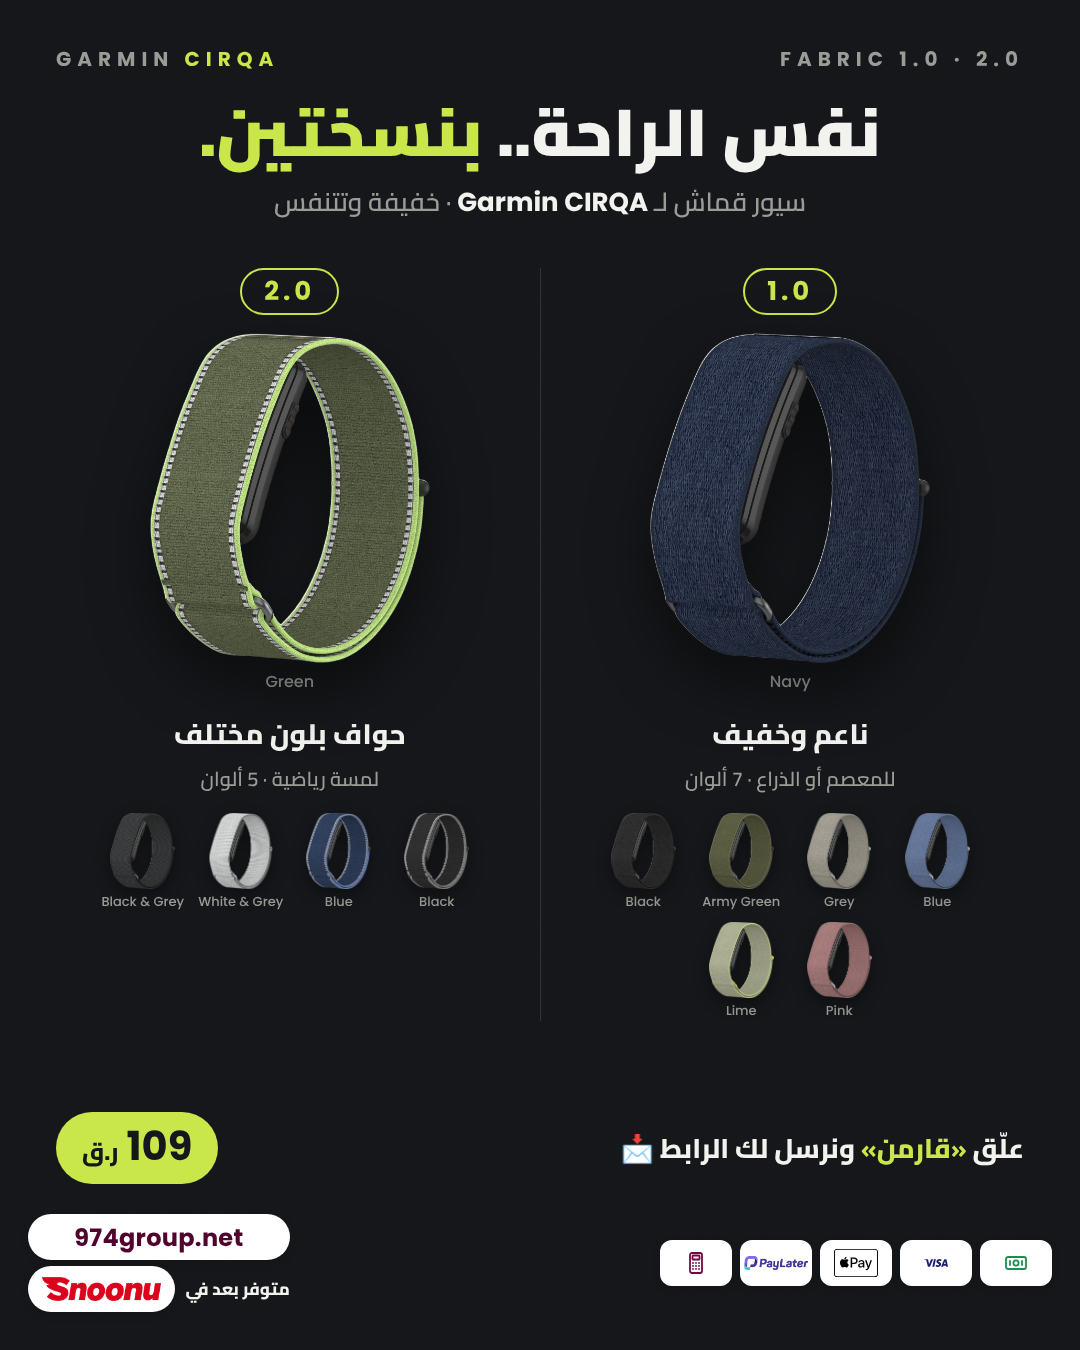
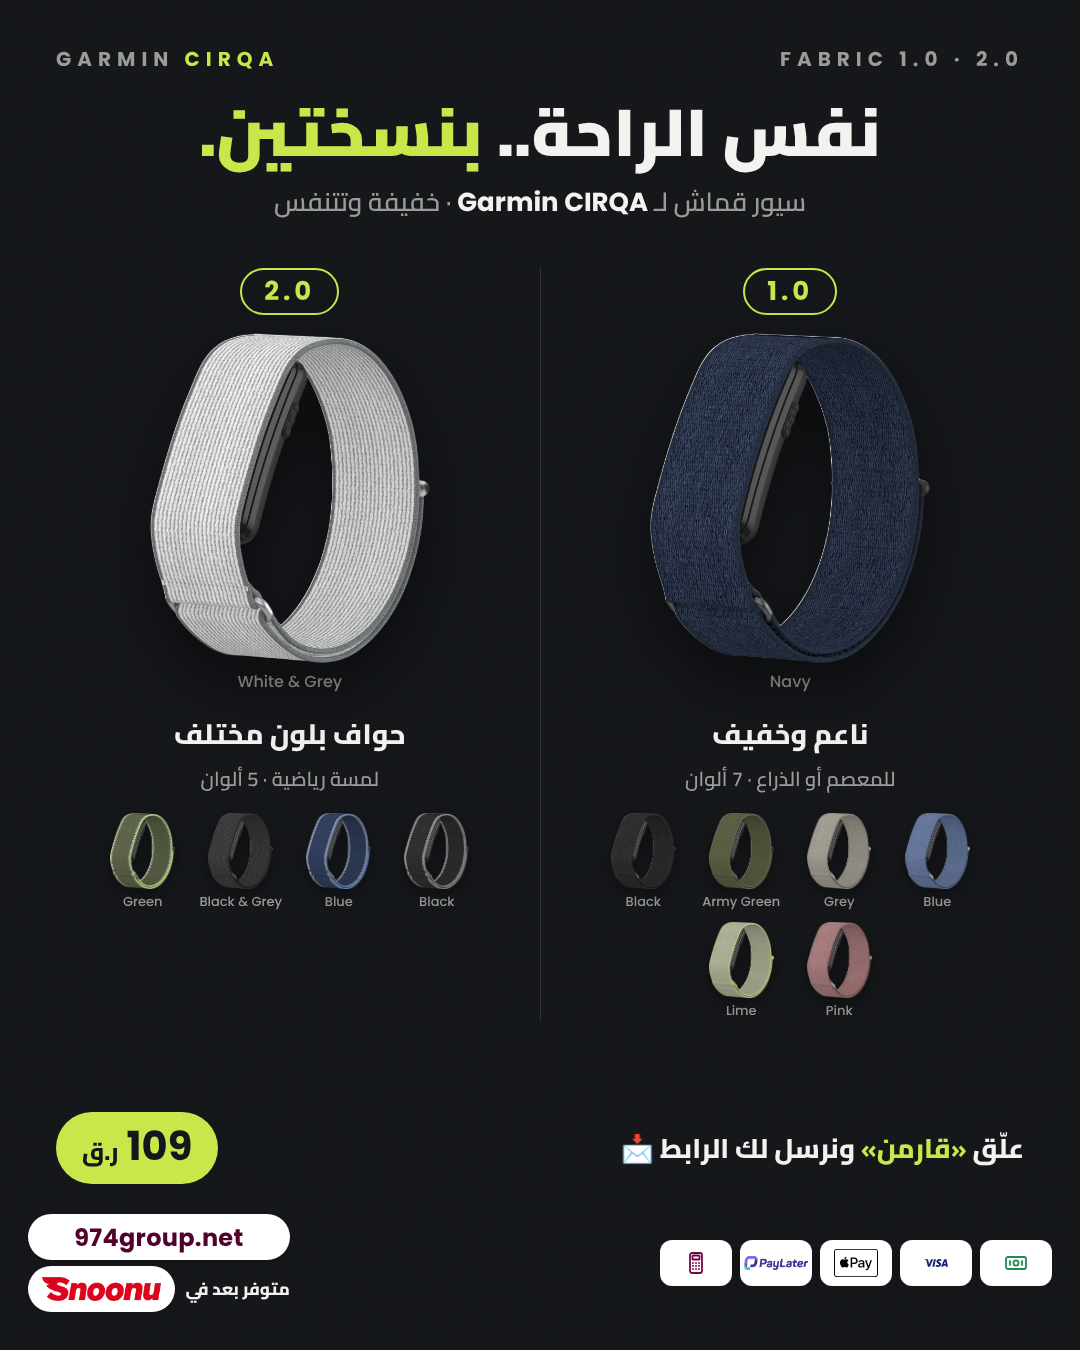
CIRQA fabric: White & Grey as 2.0 hero
Claude-Session: https://claude.ai/code/session_01K6HDWNrArsGSJekW1VcEzV

Changed region(s): [[0.1222, 0.2489, 0.3972, 0.5289], [0.0917, 0.5911, 0.275, 0.6844]]

diff --git a/posts/2026-11/cirqa-fabric/gen.py b/posts/2026-11/cirqa-fabric/gen.py
@@ -10,7 +10,7 @@ for f in glob.glob(SRC+'*.png'):
 C=os.getcwd()+'/crop/'
 BG='#15171A'; LIME='#C9E64B'; TXT='#F2F2EF'; MUTE='#9A9D97'
 V1=[('v1-navy','Navy'),('v1-black','Black'),('v1-army-green','Army Green'),('v1-grey','Grey'),('v1-blue','Blue'),('v1-lime','Lime'),('v1-pink','Pink')]
-V2=[('v2-green','Green'),('v2-black-grey','Black & Grey'),('v2-white-grey','White & Grey'),('v2-blue','Blue'),('v2-black','Black')]
+V2=[('v2-white-grey','White & Grey'),('v2-green','Green'),('v2-black-grey','Black & Grey'),('v2-blue','Blue'),('v2-black','Black')]
 def col(items,ver,line1,line2,story):
     hero=items[0]; rest=items[1:]
     sw=''.join(f'<div class="sw"><img src="file://{C}{k}.png"><span>{n}</span></div>' for k,n in rest)
